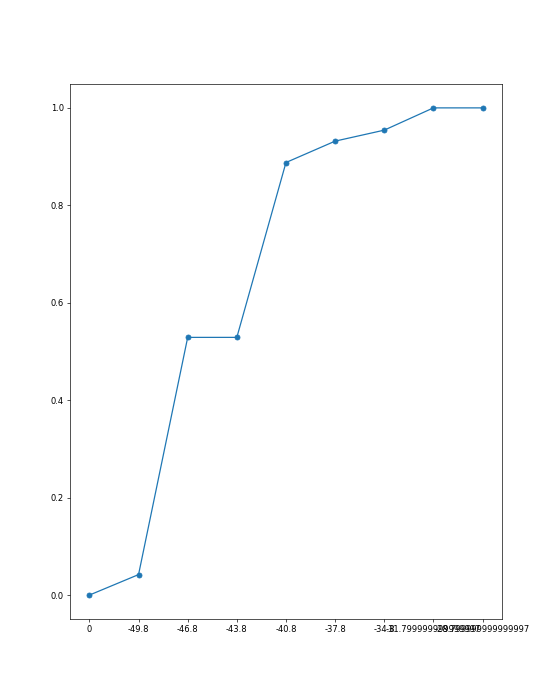
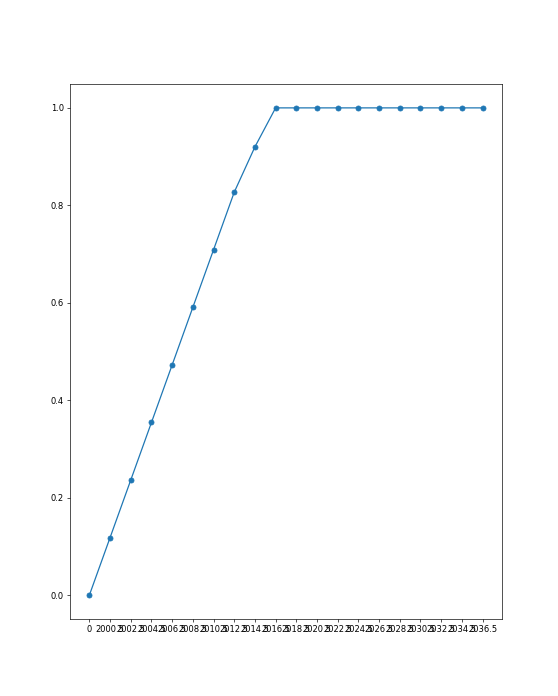
finish

diff --git a/main.py b/main.py
@@ -1,5 +1,6 @@
 import os
 from tkinter import Tk, Button, Label, filedialog, ttk, font, Canvas
+import numpy as np
 import pandas as pd
 import DataGraphics as graphics
 import matplotlib.pyplot as plt
@@ -7,9 +8,8 @@ from matplotlib.backends.backend_tkagg import FigureCanvasTkAgg
 import DataOperations as do
 from pandastable import Table
 
-def create_frequency_table(file_name, graph_name,classes, lower_limits, upper_limits, class_marks, rel_frequency
-                           , ab_frequency, ac_frequency):
-    print(f'El numero de clases es {classes} de la columna {graph_name}')
+
+def create_frequency_table(column_values, type_data, graph_name):
 
     canvas = Canvas(window)
     canvas.configure(bg="black")
@@ -24,15 +24,43 @@ def create_frequency_table(file_name, graph_name,classes, lower_limits, upper_li
 
         df.to_csv(file_path, index=False)
 
-    df = pd.DataFrame({
-        "# clase": list(range(1, classes + 1)),
-        "Lim.inf": lower_limits,
-        "Lim.sup": upper_limits,
-        "Marc.Clase": class_marks,
-        "Frec.abs": ab_frequency,
-        "Frec.rel": rel_frequency,
-        "Frec.rel_acum": ac_frequency
-    })
+    if type_data == "object" or type_data == "bool" or (type_data == "int64" and graph_name == "Gráfica de barras") or (type_data == "int64" and graph_name == "Gráfica de pastel"):
+        index = column_values.value_counts().index
+        frec_abs = column_values.value_counts().values
+        frec_relative = do.frequency_relative(frec_abs)
+        frec_rel_acumm = do.frequency_relative_accumulate(frec_relative)
+        frec_abs_acumm = do.frec_abs_acumm(frec_abs)
+        df = pd.DataFrame({
+            "# clase": index,
+            "Frec.abs": frec_abs,
+            "Frec.abs_acum": frec_abs_acumm,
+            "Frec.rel": frec_relative,
+            "Frec.rel_acum": frec_rel_acumm
+        })
+    elif type_data == "int64" or type_data == "float64":
+        total_value = do.total_value(column_values.__len__())
+        range_method = do.range_method(column_values)
+        number_class = do.number_class(total_value)
+        class_width = do.class_width(range_method, number_class)
+        lower_limits = do.limit_inf(column_values, class_width)
+        upper_limits = do.limit_sup(lower_limits, class_width)
+        class_marks = do.class_marks(lower_limits, upper_limits)
+        frec_absolute = do.frec_absolute(column_values, lower_limits, upper_limits)
+        frec_relative = do.frequency_relative(frec_absolute.values)
+        frec_relative_accum = do.frequency_relative_accumulate(frec_relative)
+        frec_abs_acumm = do.frec_abs_acumm(frec_absolute)
+        y = np.arange(1, number_class + 1)
+        print(y)
+        df = pd.DataFrame({
+            "# clase": y,
+            "Lim.inf": lower_limits,
+            "Lim.sup": upper_limits,
+            "Marc.Clase": class_marks,
+            "Frec.abs": frec_absolute,
+            "Frec.abs_acum": frec_abs_acumm,
+            "Frec.rel": frec_relative,
+            "Frec.rel_acum": frec_relative_accum
+        })
 
     export_button = Button(window, text="Export table", command=export_table, font=text_font)
     export_button.configure(bg="black", fg="white", relief="groove", bd=2, highlightthickness=2)
@@ -44,6 +72,7 @@ def create_frequency_table(file_name, graph_name,classes, lower_limits, upper_li
     table.show()
     table.update_idletasks()
     canvas.config(scrollregion=canvas.bbox("all"))
+
 
 def open_files():
     root = Tk()
@@ -81,11 +110,12 @@ def open_files():
 
             is_numeric = all(isinstance(item, (int, float)) for item in column_values)
             is_string = all(isinstance(item, str) for item in column_values)
+            is_boolean = all(isinstance(item, bool) for item in column_values)
 
             if is_numeric:
                 graphics_select = ["Histograma", "Polígono de frecuencias", "Ojivas", "Gráfica de barras",
                                    "Gráfica de pastel"]
-            elif is_string:
+            elif is_string or is_boolean or is_numeric:
                 graphics_select = ["Gráfica de barras", "Gráfica de pastel"]
             else:
                 graphics_select = []
@@ -106,44 +136,25 @@ def open_files():
         def crate_column_graph():
             selected_column = combobox_attributes.get()
             column_values = content[selected_column]
+            type_data = content[selected_column].dtype
 
-            total_value = do.total_value(column_values.__len__())
-            range_method = do.range_method(column_values)
-            number_class = do.number_class(total_value)
-            class_width = do.class_width(range_method, number_class)
-            lower_limits = do.limit_inf(column_values, class_width)
-            upper_limits = do.limit_sup(lower_limits, class_width)
-            class_marks = do.class_marks(lower_limits, upper_limits)
-            frec_absolute = do.frec_absolute(column_values, lower_limits, upper_limits)
-            frec_relative = do.frequency_relative(frec_absolute)
-            frec_relative_accum = do.frequency_relative_accumulate(frec_relative)
             graphs = combobox_graph.get()
-            print(f'El nombre de la gráfica es: {graphs}')
-            print(f'El numero de clases es {number_class}')
-            print(lower_limits.__len__())
-            print(upper_limits.__len__())
-            print(class_marks.__len__())
-            print(frec_relative.__len__())
-            print(frec_absolute.__len__())
-            print(frec_relative_accum.__len__())
 
-            # create_frequency_table(file_name, graph_name,classes, lower_limits, upper_limits, class_marks, rel_frequency
-            #                            , ab_frequency, ac_frequency)
             if graphs == "Histograma":
-                graphics.histogram_plot(frec_absolute, class_marks, canvas)
-                create_frequency_table(file.name, selected_column, number_class, lower_limits, upper_limits, class_marks, frec_relative, frec_absolute, frec_relative_accum)
+                graphics.histogram_plot(column_values, canvas)
+                create_frequency_table(column_values, type_data, graphs)
             elif graphs == "Polígono de frecuencias":
-                graphics.frequency_polygon_graph(frec_relative, class_marks, canvas)
-                create_frequency_table(file.name, selected_column, number_class, lower_limits, upper_limits, class_marks, frec_relative, frec_absolute, frec_relative_accum)
+                graphics.frequency_polygon_graph(column_values, canvas)
+                create_frequency_table(column_values, type_data, graphs)
             elif graphs == "Ojivas":
-                graphics.warhead_graph(frec_relative_accum, class_marks, canvas)
-                create_frequency_table(file.name, selected_column, number_class, lower_limits, upper_limits, class_marks, frec_relative, frec_absolute, frec_relative_accum)
+                graphics.warhead_graph(column_values, canvas)
+                create_frequency_table(column_values, type_data, graphs)
             elif graphs == "Gráfica de barras":
                 graphics.bar_graph(column_values, canvas)
-                create_frequency_table(file.name, selected_column, number_class, lower_limits, upper_limits, class_marks, frec_relative, frec_absolute, frec_relative_accum)
+                create_frequency_table(column_values, type_data, graphs)
             elif graphs == "Gráfica de pastel":
                 graphics.pie_chart(column_values, canvas)
-                create_frequency_table(file.name, selected_column, number_class, lower_limits, upper_limits, class_marks, frec_relative, frec_absolute, frec_relative_accum)
+                create_frequency_table(column_values, type_data, graphs)
             else:
                 selected_graphic = Tk()
                 selected_graphic.geometry("200x200")

diff --git a/DataGraphics.py b/DataGraphics.py
@@ -3,7 +3,16 @@ import numpy as np
 import DataOperations as do
 
 
-def histogram_plot(frecAbsolutas, classMarks, canvas):
+def histogram_plot(column_values, canvas):
+    plt.close()
+    total_value = do.total_value(column_values.__len__())
+    number_class = do.number_class(total_value)
+    range = do.range_method(column_values)
+    class_width = do.class_width(range, number_class)
+    limit_inf = do.limit_inf(column_values, class_width)
+    limit_sup = do.limit_sup(limit_inf, class_width)
+    classMarks = do.class_marks(limit_inf, limit_sup)
+    frecAbsolutas = do.frec_absolute(column_values, limit_inf, limit_sup)
     fig, ax = plt.subplots(figsize=(9.3, 11.6), dpi=60)
     x = np.arange(len(classMarks))
     ax.bar(x, frecAbsolutas, align='center', edgecolor="black")
@@ -13,8 +22,17 @@ def histogram_plot(frecAbsolutas, classMarks, canvas):
     canvas.draw()
 
 
-def frequency_polygon_graph(frecRelative, classMarks, canvas):
-    plt.clf()
+def frequency_polygon_graph(column_values, canvas):
+    plt.close()
+    total_value = do.total_value(column_values.__len__())
+    number_class = do.number_class(total_value)
+    range = do.range_method(column_values)
+    class_width = do.class_width(range, number_class)
+    limit_inf = do.limit_inf(column_values, class_width)
+    limit_sup = do.limit_sup(limit_inf, class_width)
+    classMarks = do.class_marks(limit_inf, limit_sup)
+    frecAbsolutas = do.frec_absolute(column_values, limit_inf, limit_sup)
+    frecRelative = do.frequency_relative(frecAbsolutas)
     frecRelative = np.insert(frecRelative, 0, 0)
     frecRelative = np.append(frecRelative, 0)
     classMarks.insert(0, 0)
@@ -23,29 +41,37 @@ def frequency_polygon_graph(frecRelative, classMarks, canvas):
     fig, ax = plt.subplots(figsize=(9.3, 11.6), dpi=60)
     x = np.arange(len(classMarks))
     ax.plot(x, frec_relative, marker="o")
-    # ax.tick_params(axis='x', rotation=30)
     ax.set_xticks(x, labels=classMarks)
     fig.savefig("./GraphicsExports/f-polygon-graphic.png")
     canvas.figure = fig
     canvas.draw()
 
 
-def warhead_graph(frecRelativeAccum, classMarks, canvas):
-    plt.clf()
+def warhead_graph(column_values, canvas):
+    plt.close()
+    total_value = do.total_value(column_values.__len__())
+    number_class = do.number_class(total_value)
+    range = do.range_method(column_values)
+    class_width = do.class_width(range, number_class)
+    limit_inf = do.limit_inf(column_values, class_width)
+    limit_sup = do.limit_sup(limit_inf, class_width)
+    classMarks = do.class_marks(limit_inf, limit_sup)
+    frecAbsolutas = do.frec_absolute(column_values, limit_inf, limit_sup)
+    frecRelative = do.frequency_relative(frecAbsolutas)
+    frecRelativeAccum = do.frequency_relative_accumulate(frecRelative)
     frec_RelativeAccum = np.insert(frecRelativeAccum, 0, 0)
     classMarks.insert(0, 0)
     fig, ax = plt.subplots(figsize=(9.3, 11.6), dpi=60)
     x = np.arange(len(classMarks))
     ax.plot(x, frec_RelativeAccum, marker="o")
-    # plt.plot(accumulative, valueIndex[::-1], 'o')
     ax.set_xticks(x, labels=classMarks)
     fig.savefig("./GraphicsExports/warhead-graphic.png")
     canvas.figure = fig
     canvas.draw()
 
 
-# ME FALTA DESORDENAR LA GRAFICA
 def bar_graph(data, canvas):
+    plt.close()
     data_bar = data.value_counts()
     y = np.arange(len(data_bar.index[0:]))
     fig, ax = plt.subplots(figsize=(9.3, 11.6), dpi=60)
@@ -57,10 +83,10 @@ def bar_graph(data, canvas):
 
 
 def pie_chart(data, canvas):
+    plt.close()
     data_pie = data.value_counts()
-    frequency_relative = do.frequency_relative(data_pie) * 100
+    frequency_relative = do.frequency_relative(data_pie.values) * 100
     fig, ax = plt.subplots(figsize=(9.3, 11.6), dpi=60)
-    # %0.f%
     ax.pie(frequency_relative, labels=data_pie.values[0:], autopct='%1.1f%%', shadow=True)
     ax.legend(data_pie.index.tolist(), title="Data", loc="upper left")
     fig.savefig("./GraphicsExports/pie-graphic.png")

diff --git a/DataOperations.py b/DataOperations.py
@@ -6,7 +6,6 @@ import pandas as pd
 def number_class(amount_data):
     amount_data = int(amount_data)
     nc = 1 + (3.3 * math.log10(amount_data))
-    print(f'El numero de clases sin redondear es {nc}')
     return nc.__round__()
 
 
@@ -35,25 +34,35 @@ def class_marks(limitInf, limitSup):
 
 
 def limit_inf(data, classWidth):
-    lower_limits = np.arange(np.min(data), np.max(data), classWidth + 1)
-    return lower_limits
+    lower_limit = []
+    for i in range(number_class(len(data))):
+        if i == 0:
+            value = min(data)
+        else:
+            value = min(data) + (i * classWidth) + i
+
+        lower_limit.append(value)
+    return lower_limit
 
 
 def limit_sup(lowerLimits, classWidth):
-    lowerLimits = np.array(lowerLimits)
-    upper_limits = lowerLimits + classWidth
-    return upper_limits
+    limits_sup = [limit + classWidth for limit in lowerLimits]
+    return limits_sup
 
 
 def frec_absolute(data, lower_limit, upper_limit):
     ranges = pd.IntervalIndex.from_arrays(lower_limit, upper_limit, closed="both")
     frequency = pd.cut(data, bins=ranges, include_lowest=True).value_counts().sort_index()
-    # frequencies, _ = np.histogram(data, bins=num_classes - 1, range=(np.min(data), np.max(data)))
     return frequency
 
 
+def frec_abs_acumm(frecAbs):
+    frec_relative_accum = np.cumsum(frecAbs)
+    return frec_relative_accum
+
+
 def frequency_relative(data):
-    freq_relative = data.values[0:] / sum(data.values)
+    freq_relative = data[0:] / sum(data)
     return freq_relative
 
 
